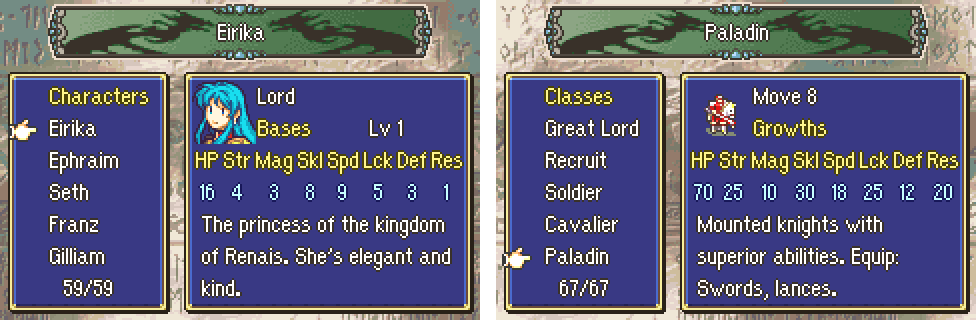
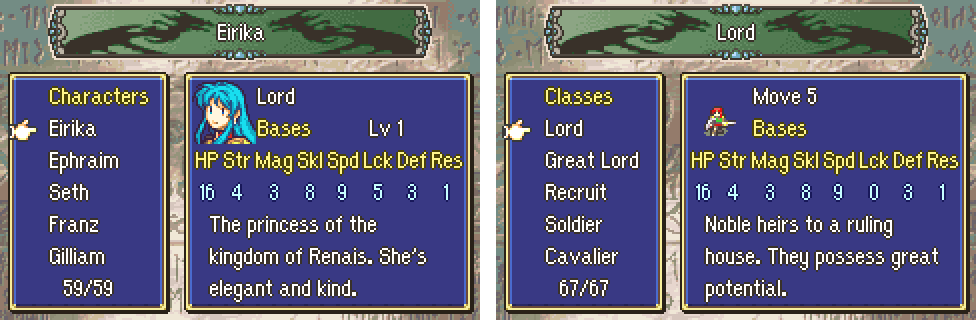
Bestiary: 8-pixel description margins, as in the Skill Codex (#737)
* Bestiary: Extras > Bestiary, every character and class met

A new Extras row (vanilla's trial-map bit 6) opens a screen with two tabs,
Characters and Classes: the names met (the rest as "???"), and for the one
under the cursor its mini portrait or map sprite, its class or movement,
bases or growths (A), and its description, wrapped.

- Met: at every phase start, each unit on the map the player can see (not
  hidden in fog) marks its character and class. Lists in
  Data/Bestiary/Bestiary.c; rows that share a name are merged.
- Kept per save, as one record for the cartridge: the bits live in RAM and
  in the bytes after the save tables of the game and suspend saves, after
  New Game+'s (new SaveData/Source/SaveTail.c shares them). Loading or
  starting a game takes in every other save's bits; the title shows the
  union. Not a chunk: the save layout and its signature do not change.
- The label "Bestiary" is assembled from vanilla's own label letters,
  placed round the Gallery's letters in the Extras sheet; the Extras list
  now reads gExtrasLabelSprites (8 entries).
- Smoke test test_bestiary; the Gallery test's route moves one row up.
- Docs: Bestiary.md, README, SaveData.md (no free SRAM), Menus.md,
  NewGamePlus.md, Gallery.md, a CLAUDE.md pitfall.

Claude-Session: https://claude.ai/code/session_01JBGikDP32ZYxx6qXR4N284

* Skill Codex: Extras > Skill Codex, every skill and the ones met

A new Extras row (bit 7, the last of the list's byte) opens a list of every
[…]

diff --git a/Kernel/Wizardry/Bestiary/Source/BestiaryScreen.c b/Kernel/Wizardry/Bestiary/Source/BestiaryScreen.c
@@ -47,7 +47,7 @@
 #define NAME_PX        ((LIST_W - 4) * 8) /* a name's room in the list, right of the hand */
 #define STATS_PX       (INFO_IN_W * 8)
 #define DESC_PX        (INFO_IN_W * 8)
-#define DESC_MARGIN    4 /* pixels free left and right of the description */
+#define DESC_MARGIN    8 /* pixels free left and right of the description, as in the Skill Codex */
 
 #define CHIBI_TILE     EXTRAS_UI_FREE_TILE
 #define PAL_CHIBI      4
@@ -313,10 +313,19 @@ static void Bestiary_ClearStats(void)
 	}
 }
 
+/* The description in its lines; one too long for them (Marisa's, the Summoner's) again in the narrow font */
 static void Bestiary_DrawDesc(int msg)
 {
-	ExtrasUi_DrawWrapped(BS->desc, DESC_LINES, DESC_PX, DESC_MARGIN, msg != 0 ? GetStringFromIndex(msg) : NULL,
-			     gBG0TilemapBuffer + TILEMAP_INDEX(STATS_X, DESC_Y));
+	u16 *tm = gBG0TilemapBuffer + TILEMAP_INDEX(STATS_X, DESC_Y);
+
+	if (msg == 0) {
+		ExtrasUi_DrawWrapped(BS->desc, DESC_LINES, DESC_PX, DESC_MARGIN, NULL, tm);
+		return;
+	}
+
+	if (!ExtrasUi_DrawWrapped(BS->desc, DESC_LINES, DESC_PX, DESC_MARGIN, GetStringFromIndex(msg), tm))
+		ExtrasUi_DrawWrapped(BS->desc, DESC_LINES, DESC_PX, DESC_MARGIN,
+				     Utf8ToNarrowFonts(GetStringFromIndex(msg)), tm);
 }
 
 static void Bestiary_DrawCharacter(int pid)

diff --git a/Kernel/Wizardry/Bestiary/Source/ExtrasUi.c b/Kernel/Wizardry/Bestiary/Source/ExtrasUi.c
@@ -73,11 +73,13 @@ void ExtrasUi_LoadBanner(void)
  * A text wrapped to px pixels in n lines, each a Text, put two tile rows apart from tm: line breaks (and other control
  * bytes) become spaces, and words go on a line while it fits. The rest is left out. NULL clears the lines.
  * margin pixels are left free on each side: the text starts margin pixels in and wraps margin pixels before px.
+ * Returns whether all of it fit.
  */
-void ExtrasUi_DrawWrapped(struct Text *lines, int n, int px, int margin, const char *src, u16 *tm)
+bool ExtrasUi_DrawWrapped(struct Text *lines, int n, int px, int margin, const char *src, u16 *tm)
 {
 	char text[0x200], line[0x60];
 	int i, row = 0, len = 0, word;
+	bool fit = true;
 
 	for (i = 0; i < n; i++)
 		ClearText(&lines[i]);
@@ -122,8 +124,17 @@ void ExtrasUi_DrawWrapped(struct Text *lines, int n, int px, int margin, const c
 
 		if (len != 0 && row < n)
 			Text_InsertDrawString(&lines[row], margin, TEXT_COLOR_SYSTEM_WHITE, line);
+		else if (len != 0)
+			fit = false;
+
+		while (*src == ' ')
+			src++;
+		if (*src != '\0')
+			fit = false;
 	}
 
 	for (i = 0; i < n; i++)
 		PutText(&lines[i], tm + i * TILEMAP_INDEX(0, 2));
+
+	return fit;
 }

diff --git a/include/kernel/extras-ui.h b/include/kernel/extras-ui.h
@@ -16,4 +16,4 @@ char *ExtrasUi_Append(char *dst, const char *src);
 void ExtrasUi_PutCentred(struct Text *t, int px, int color, const char *str, u16 *tm);
 void ExtrasUi_PutLeft(struct Text *t, int color, const char *str, u16 *tm);
 void ExtrasUi_LoadBanner(void);
-void ExtrasUi_DrawWrapped(struct Text *lines, int n, int px, int margin, const char *src, u16 *tm);
+bool ExtrasUi_DrawWrapped(struct Text *lines, int n, int px, int margin, const char *src, u16 *tm);

diff --git a/Documentation/Features/Bestiary.md b/Documentation/Features/Bestiary.md
@@ -31,8 +31,9 @@
   - the stats (HP, Str, Mag, Skl, Spd, Lck, Def, Res), the names across the window with the same gap between each
     two and each value centred under its name: a character's bases are its own plus its class's (as when it
     joins), magic from the magic tables (`gMagicPInfos`, `gMagicJInfos`); a class has no base luck (0);
-  - the description (the character's or the class's help text), wrapped to the window with 4 pixels free on each
-    side, up to three lines.
+  - the description (the character's or the class's help text), wrapped to the window with 8 pixels free on each
+    side, as in the Skill Codex, up to three lines; one too long for that (Marisa's, the Summoner's) is drawn in the
+    narrow font.
 - B goes back to Extras.
 
 ---
@@ -140,6 +141,6 @@ second row) is not met; A shows Eirika's growths; R shows the classes, three met
 - Character and class ids above 0xFF are not kept.
 - A unit met after the last save is lost if the game is reset without saving (or suspending).
 - Only the units on the map at a phase start are marked: a unit that appears and leaves within one phase is not.
-- A description longer than three lines is cut short.
+- A description longer than three lines even in the narrow font is cut short (none is, now).
 - A character's stats are its data's (its base class's bases added); a unit's own load data (levels, autolevelling) is
   not shown.
